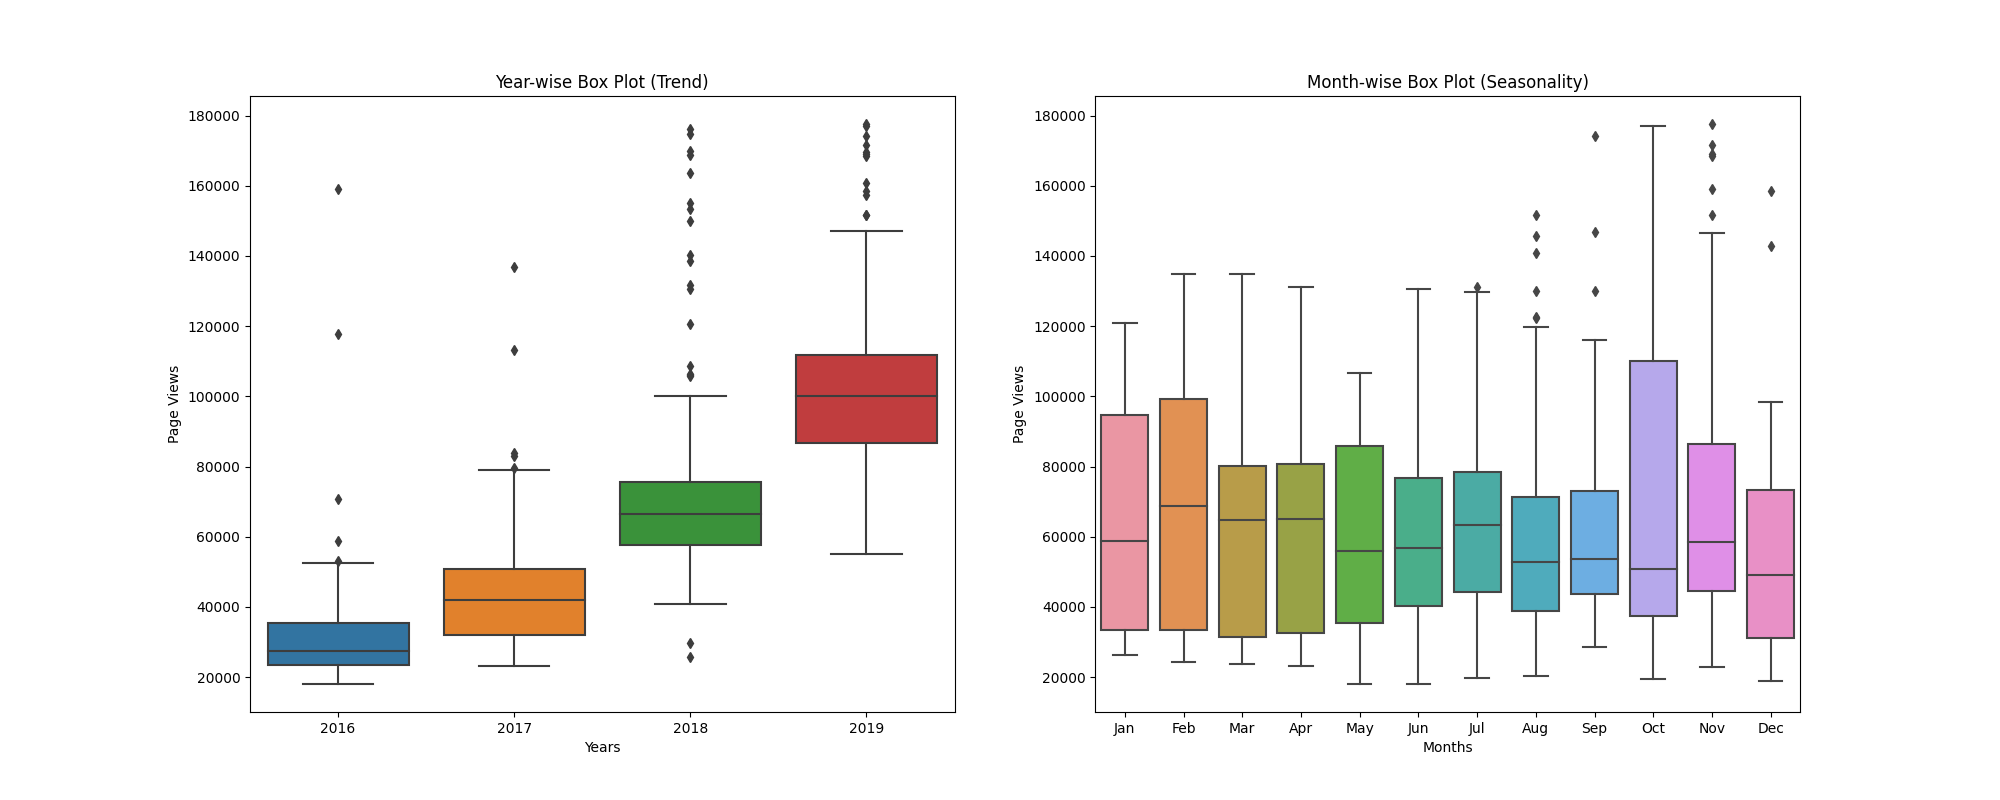
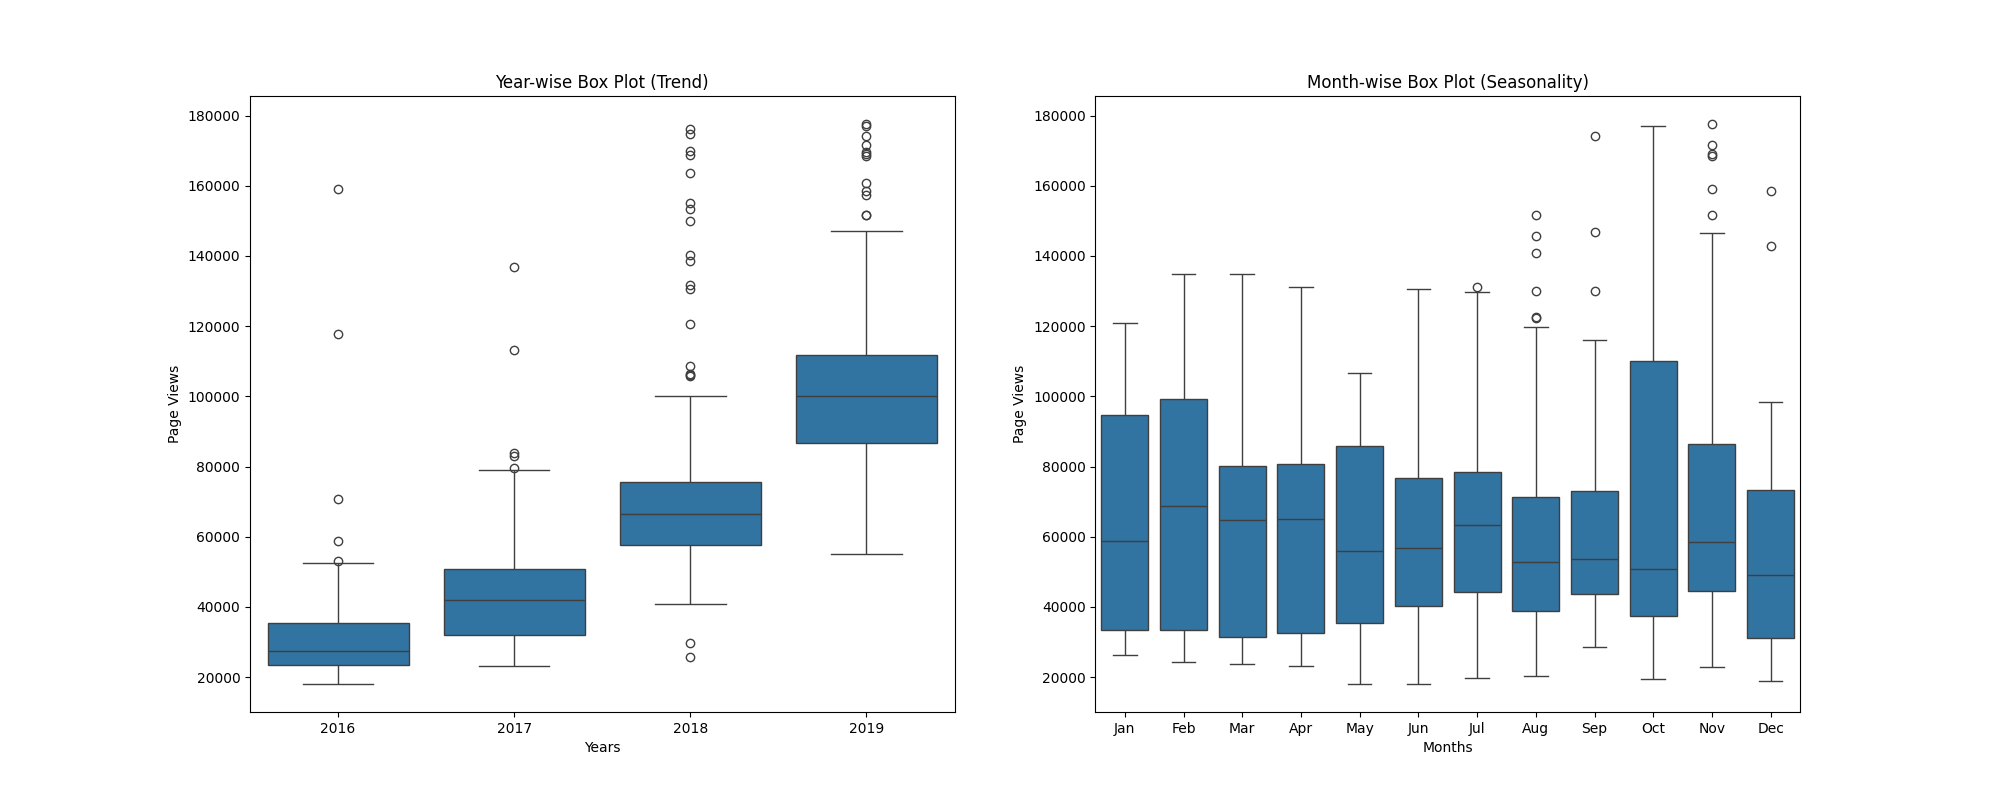
updated seaborn to fix attribute error

diff --git a/main.py b/main.py
@@ -18,10 +18,10 @@ register_matplotlib_converters()
 import numpy as np
 import seaborn as sns
 
-np.float = float    
-np.int = int   #module 'numpy' has no attribute 'int'
-np.object = object    #module 'numpy' has no attribute 'object'
-np.bool = bool    #module 'numpy' has no attribute 'bool'
+#np.float = float    
+#np.int = int   #module 'numpy' has no attribute 'int'
+#np.object = object    #module 'numpy' has no attribute 'object'
+#np.bool = bool    #module 'numpy' has no attribute 'bool'
 
 #read csv, parse dates, set index to date column
 df = pd.read_csv("fcc-forum-pageviews.csv")
